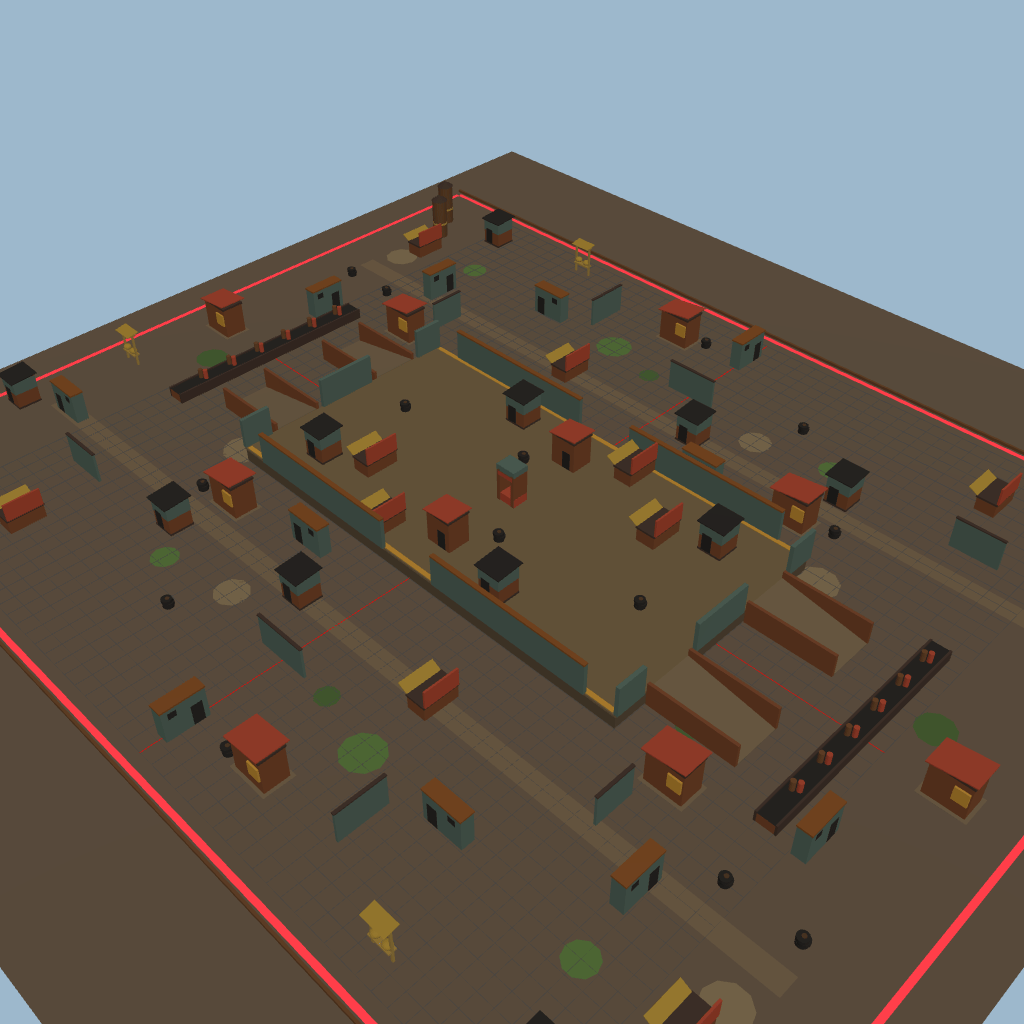
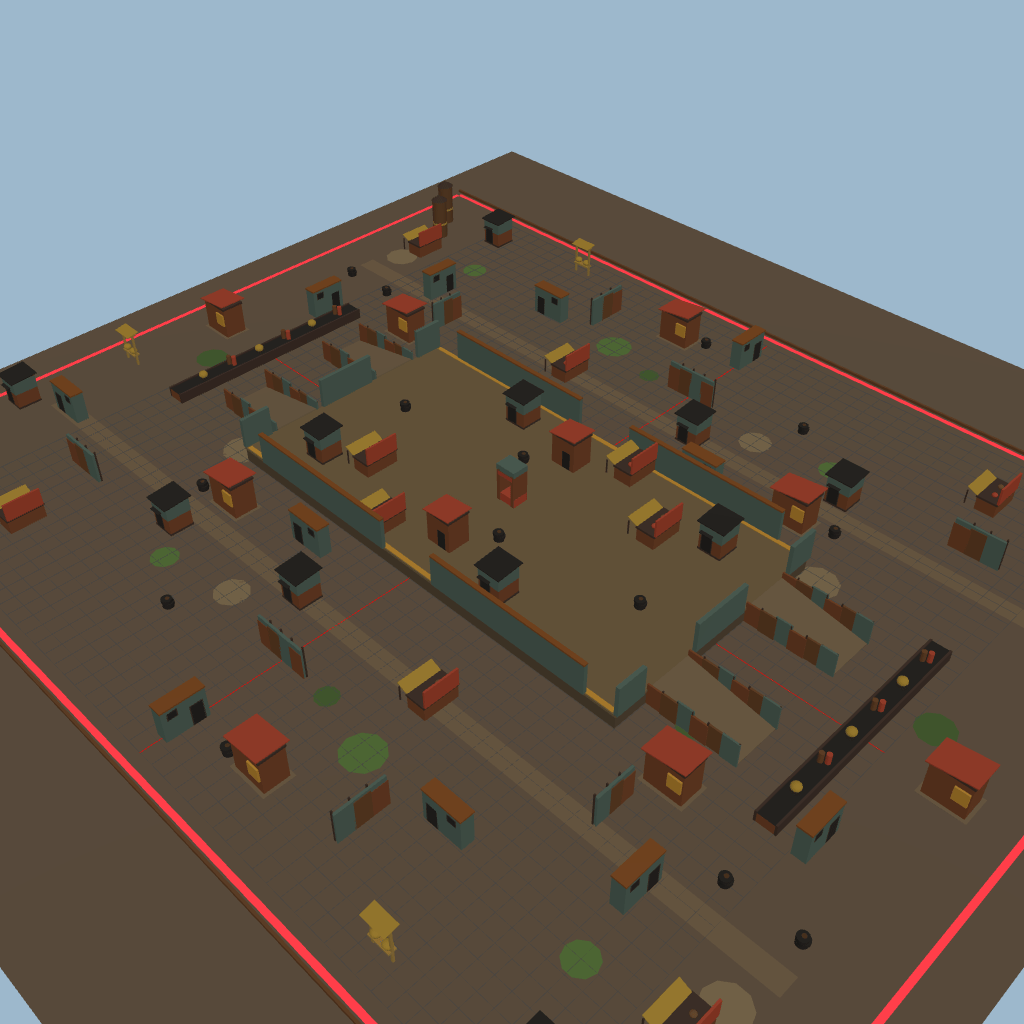
yard: revamp the five factory-reading pieces (collision frozen)
User named the leftovers: partition, conveyor belt, house openings,
slope + guard, workbench. Each gets slum construction language now —
clean single-material slabs were what kept reading factory:

- Partitions -> staggered sheet fences: overlapped panels of varying
  height and tint on timber posts; the old top-trim cap keeps its
  collision box, invisible (a clean capped edge read industrial).
- Shack rows -> visibly segmented attached shacks: alternating sheet
  tints per ~9-unit bay on both faces; rooftop objects alternate drum
  pairs with tarped bundles so the roofline stops reading as belt cargo.
- Tower + row-house openings -> framed: timber frame plane behind each
  dark inset, lintel overhang above tower gates (bare planes read as
  stickers on a box).
- Slopes -> plank treads laid over the dirt banks; lane guards keep
  their collision boxes invisible under staggered sheet fences with
  posts (overlapping panels, visually solid like the cover they are).
- Workbenches -> proper market stalls: the canopy now stands on two
  timber legs and tarped goods sit on the counter.

Collision export still checksums byte-identical (3637168.500000 / 319).
Aerial + ramp-lane close-up verified by eye; thumbnail refreshed.

diff --git a/client/src/main.js b/client/src/main.js
@@ -11102,13 +11102,40 @@ function buildFactory2Arena() {
   addRamp({ minX: 60, maxX: 82, minZ: 10, maxZ: 22, axis: 'x', lowY: DECK_Y, highY: 0, material: floorPaint });
   addRamp({ minX: -82, maxX: -60, minZ: -22, maxZ: -10, axis: 'x', lowY: 0, highY: DECK_Y, material: floorPaint });
   addRamp({ minX: -82, maxX: -60, minZ: 10, maxZ: 22, axis: 'x', lowY: 0, highY: DECK_Y, material: floorPaint });
-  // Solid lane fences along every bank edge (were caution rails; top 6,
-  // topBuffer 0, identical boxes): rusted sheet, so the climb reads as a
-  // fenced village lane instead of a plant walkway. Grounded units can only
-  // enter at the foot; anyone already on the bank/terrace passes.
+  // Plank treads laid over each dirt bank (decor — the bare wedge still
+  // read as a smooth factory ramp; revamp 2026-08-13).
+  const rampPlanks = (x0, x1, zc, y0, y1) => {
+    const ang = Math.atan2(y1 - y0, x1 - x0);
+    for (let i = 0; i < 7; i += 1) {
+      const t = (i + 0.5) / 7;
+      const plank = new THREE.Mesh(new THREE.BoxGeometry(1.6, 0.1, 11.6), crate.clone());
+      plank.position.set(x0 + (x1 - x0) * t, y0 + (y1 - y0) * t + 0.08, zc);
+      plank.rotation.z = ang;
+      scene.add(plank); arenaDecor.push(plank);
+    }
+  };
+  rampPlanks(60, 82, -16, 4, 0); rampPlanks(60, 82, 16, 4, 0);
+  rampPlanks(-82, -60, -16, 0, 4); rampPlanks(-82, -60, 16, 0, 4);
+  // Lane guards (were caution rails; top 6, topBuffer 0, identical boxes):
+  // the collision box goes invisible and a staggered sheet fence with posts
+  // covers the same volume — a solid 22-long slab read as a plant wall
+  // (revamp 2026-08-13). Sheets overlap, so the fence stays visually solid
+  // like the cover it is. Grounded units can only enter at the foot;
+  // anyone already on the bank/terrace passes.
   for (const sx of [-1, 1]) {
     for (const rz of [-22.4, -9.6, 9.6, 22.4]) {
-      addBlockingBox({ x: sx * 71, y: 3, z: rz, sx: 22, sy: 6, sz: 0.8, material: machine, topBuffer: 0 });
+      addBlockingBox({ x: sx * 71, y: 3, z: rz, sx: 22, sy: 6, sz: 0.8, material: machine, topBuffer: 0, invisible: true });
+      const gTints = [machine, wallTrim, machineAlt];
+      for (let i = 0; i < 6; i += 1) {
+        const gx = sx * 71 - 11 + (i + 0.5) * (22 / 6);
+        const hgt = 5.5 + (i % 3) * 0.45;
+        const sheet = new THREE.Mesh(new THREE.BoxGeometry(22 / 6 + 0.4, hgt, 0.45), gTints[i % 3].clone());
+        sheet.position.set(gx, hgt / 2, rz + (i % 2 ? 0.12 : -0.1));
+        scene.add(sheet); arenaDecor.push(sheet);
+        const post = new THREE.Mesh(new THREE.BoxGeometry(0.3, 6.4, 0.3), beam.clone());
+        post.position.set(gx + 22 / 12, 3.2, rz);
+        scene.add(post); arenaDecor.push(post);
+      }
     }
   }
   // Deck-top cover line at x=0 (the "checkpoint"): a press flanked by two
@@ -11158,18 +11185,40 @@ function buildFactory2Arena() {
     tar.rotation.x = -Math.PI / 2;
     tar.position.set(cx, 2.61, beltZ);
     scene.add(tar); arenaDecor.push(tar);
-    // (No doorways: the row is only 2.6 tall — knee-height to the unit —
-    // and human doors on it screamed "tiny homes", making the unit a giant.
-    // It reads as a long scrap-roofed storage row now. Scale pass 2026-08-13.)
-    // The riding crates keep their collision but render as rooftop water
-    // drums — a pair of barrels filling each box footprint.
+    // (No doorways — human doors on a knee-height row shrank the world.)
+    // Segmented faces so the row reads as ATTACHED SHACKS, not one long
+    // machine: alternating sheet tints per ~9-unit bay on both sides
+    // (revamp 2026-08-13 — the uniform body still read as a conveyor).
+    const segTints = [machine, wallTrim, machineAlt];
+    const nSeg = Math.max(2, Math.round(len / 9));
+    for (let i = 0; i < nSeg; i += 1) {
+      const t = -len / 2 + (i + 0.5) * (len / nSeg);
+      for (const side of [-1, 1]) {
+        const p = new THREE.Mesh(new THREE.PlaneGeometry(len / nSeg - 0.4, 2.2), segTints[(i + (side > 0 ? 1 : 0)) % 3].clone());
+        p.position.set(cx + side * 2.06, 1.3, beltZ + t);
+        p.rotation.y = side > 0 ? -Math.PI / 2 : Math.PI / 2;
+        scene.add(p); arenaDecor.push(p);
+      }
+    }
+    // The riding crates keep their collision, invisible; rooftop objects
+    // ALTERNATE (drum pair / tarped bundle) so the roofline stops reading
+    // as evenly-spaced belt cargo.
+    let objAlt = false;
     for (let lz = -len / 2 + 6; lz <= len / 2 - 6; lz += 9) {
       addBlockingBox({ x: cx, y: 4.0, z: beltZ + lz, sx: 2.6, sy: 2.6, sz: 2.6, material: machine, topBuffer: 2, invisible: true });
-      for (const [ox, oz, tint] of [[-0.62, 0.35, wallTrim], [0.62, -0.35, machineTop]]) {
-        const drum = new THREE.Mesh(new THREE.CylinderGeometry(0.62, 0.62, 2.5, 12), tint.clone());
-        drum.position.set(cx + ox, 4.0, beltZ + lz + oz);
-        scene.add(drum); arenaDecor.push(drum);
+      if (objAlt) {
+        const bundle = new THREE.Mesh(new THREE.SphereGeometry(1.15, 10, 8), cautionMat.clone());
+        bundle.scale.set(1.05, 0.85, 1.05);
+        bundle.position.set(cx, 3.75, beltZ + lz);
+        scene.add(bundle); arenaDecor.push(bundle);
+      } else {
+        for (const [ox, oz, tint] of [[-0.62, 0.35, wallTrim], [0.62, -0.35, machineTop]]) {
+          const drum = new THREE.Mesh(new THREE.CylinderGeometry(0.62, 0.62, 2.5, 12), tint.clone());
+          drum.position.set(cx + ox, 4.0, beltZ + lz + oz);
+          scene.add(drum); arenaDecor.push(drum);
+        }
       }
+      objAlt = !objAlt;
     }
     arenaSurfaces.push({ minX: cx - 2, maxX: cx + 2, minZ: beltZ - len / 2, maxZ: beltZ + len / 2, maxTop: 2.6, type: 'flat', top: 2.6, heightAt: () => 2.6 });
   };
@@ -11184,11 +11233,30 @@ function buildFactory2Arena() {
     const main = axis === 'x'
       ? addBlockingBox({ x, y: 4.0, z, sx: length, sy: 8.0, sz: 0.6, material: machineAlt })
       : addBlockingBox({ x, y: 4.0, z, sx: 0.6, sy: 8.0, sz: length, material: machineAlt });
-    const trim = addBlockingBox(axis === 'x'
-      ? { x, y: 8.15, z, sx: length + 0.2, sy: 0.3, sz: 0.8, material: beam }
-      : { x, y: 8.15, z, sx: 0.8, sy: 0.3, sz: length + 0.2, material: beam });
+    // Old top trim keeps its collision, invisible — a clean capped edge read
+    // as a factory partition (revamp 2026-08-13). The fence look comes from
+    // staggered overlapped sheets of varying height + timber posts.
+    addBlockingBox(axis === 'x'
+      ? { x, y: 8.15, z, sx: length + 0.2, sy: 0.3, sz: 0.8, material: beam, invisible: true }
+      : { x, y: 8.15, z, sx: 0.8, sy: 0.3, sz: length + 0.2, material: beam, invisible: true });
     fadeTall(main, box);
-    fadeTall(trim, box);   // top trim fades with the panel
+    const tints = [machine, wallTrim, machineAlt];
+    const nP = Math.max(3, Math.round(length / 4));
+    const seg = length / nP;
+    for (let i = 0; i < nP; i += 1) {
+      const t = -length / 2 + (i + 0.5) * seg;
+      const hgt = 6.8 + (i % 3) * 0.65;
+      const sheet = new THREE.Mesh(
+        new THREE.BoxGeometry(axis === 'x' ? seg + 0.35 : 0.12, hgt, axis === 'x' ? 0.12 : seg + 0.35),
+        tints[i % 3].clone());
+      sheet.position.set(axis === 'x' ? x + t : x + 0.4, hgt / 2, axis === 'x' ? z + 0.4 : z + t);
+      scene.add(sheet); arenaDecor.push(sheet);
+      fadeTall(sheet, box);
+      const post = new THREE.Mesh(new THREE.BoxGeometry(0.35, 8.6, 0.35), beam.clone());
+      post.position.set(axis === 'x' ? x + t + seg / 2 : x - 0.42, 4.3, axis === 'x' ? z - 0.42 : z + t + seg / 2);
+      scene.add(post); arenaDecor.push(post);
+      fadeTall(post, box);
+    }
   };
   drawPartition(0, -66, 'x', 14);
   drawPartition(0, 66, 'x', 14);
@@ -11216,18 +11284,34 @@ function buildFactory2Arena() {
     fadeTall(splash, h
       ? { minX: x - 4.5, maxX: x + 4.5, minY: b + 3.8, maxY: b + 8.4, minZ: z + 2.3, maxZ: z + 2.9 }
       : { minX: x + 2.3, maxX: x + 2.9, minY: b + 3.8, maxY: b + 8.4, minZ: z - 4.5, maxZ: z + 4.5 });
-    // Canvas awning leaning over the open front (opposite the sign wall).
+    // Canvas stall canopy over the open front, standing on two timber legs
+    // (revamp 2026-08-13: the floating awning read as a broken part —
+    // grounded posts make it a market stall).
     const aw = h
-      ? new THREE.Mesh(new THREE.BoxGeometry(9, 0.18, 3.2), cautionMat.clone())
-      : new THREE.Mesh(new THREE.BoxGeometry(3.2, 0.18, 9), cautionMat.clone());
+      ? new THREE.Mesh(new THREE.BoxGeometry(9, 0.18, 3.4), cautionMat.clone())
+      : new THREE.Mesh(new THREE.BoxGeometry(3.4, 0.18, 9), cautionMat.clone());
     if (h) {
-      aw.position.set(x, b + 4.4, z - 3.6);
-      aw.rotation.x = 0.5;
+      aw.position.set(x, b + 4.35, z - 3.7);
+      aw.rotation.x = 0.42;
     } else {
-      aw.position.set(x - 3.6, b + 4.4, z);
-      aw.rotation.z = -0.5;
+      aw.position.set(x - 3.7, b + 4.35, z);
+      aw.rotation.z = -0.42;
     }
     scene.add(aw); arenaDecor.push(aw);
+    const legs = h ? [[x - 4.2, z - 5.1], [x + 4.2, z - 5.1]] : [[x - 5.1, z - 4.2], [x - 5.1, z + 4.2]];
+    for (const [lx, lz2] of legs) {
+      const leg = new THREE.Mesh(new THREE.BoxGeometry(0.28, 3.8, 0.28), beam.clone());
+      leg.position.set(lx, b + 1.9, lz2);
+      scene.add(leg); arenaDecor.push(leg);
+    }
+    // Goods on the counter.
+    const spots = h ? [[x - 1.6, z, crate], [x + 2.1, z + 0.5, machineTop]] : [[x, z - 1.6, crate], [x + 0.5, z + 2.1, machineTop]];
+    for (const [gx2, gz2, tint] of spots) {
+      const goods = new THREE.Mesh(new THREE.SphereGeometry(0.72, 9, 7), tint.clone());
+      goods.scale.set(1.05, 0.8, 1.0);
+      goods.position.set(gx2, b + 4.35, gz2);
+      scene.add(goods); arenaDecor.push(goods);
+    }
     // (No doorway: the kiosk body is 3.4 tall — a human-sized door on a
     // waist-high stall made the unit read as a giant. Stalls are open-front
     // market stands; the awning + sign carry the read. Scale pass 2026-08-13.)
@@ -11273,16 +11357,22 @@ function buildFactory2Arena() {
     fadeTall(addBlockingBox({ x, y: 4, z, sx, sy: 8, sz, material: machineAlt }), box);
     fadeTall(addBlockingBox({ x, y: 8.2, z, sx: sx + 0.3, sy: 0.4, sz: sz + 0.3, material: beltFrame }), box);
     const h = axis === 'x';
+    // Framed openings (revamp 2026-08-13: bare planes read as decals): a
+    // timber frame plane sits just behind each dark inset.
     const face = (ox, oz, w, hh, yy, rot) => {
+      const fr = new THREE.Mesh(new THREE.PlaneGeometry(w + 0.5, hh + 0.4), beam.clone());
+      fr.position.set(x + ox * (h ? 1 : 0.988), yy, z + oz * (h ? 0.988 : 1));
+      fr.rotation.y = rot;
+      scene.add(fr); arenaDecor.push(fr);
+      fadeTall(fr, box);
       const m = new THREE.Mesh(new THREE.PlaneGeometry(w, hh), beltSurface.clone());
       m.position.set(x + ox, yy, z + oz);
       m.rotation.y = rot;
       scene.add(m); arenaDecor.push(m);
       fadeTall(m, box);
     };
-    // Mech-scale openings (scale pass 2026-08-13): one 5.2-tall gate and
-    // one high vent window per house — small human-proportioned doors made
-    // the unit read as a giant.
+    // Mech-scale openings: one 5.2-tall gate and one high vent window per
+    // house — small human-proportioned doors made the unit read as a giant.
     if (h) {
       face(-2.6, 1.62, 2.6, 5.2, 2.65, 0);         // gate, south face
       face(2.6, 1.62, 1.9, 1.6, 6.2, 0);           // high vent window
@@ -11328,13 +11418,27 @@ function buildFactory2Arena() {
     roof.rotation.x = 0.08;
     scene.add(roof); arenaDecor.push(roof);
     fadeTall(roof, { ...box, maxY: b + 8.8 });
-    // Mech-scale gate on the south face + one high vent window. Openings
-    // are sized so ~1 storey = 7-8 units: a 5-tall gate keeps the 6.4-tall
-    // unit from reading as a giant (scale pass 2026-08-13).
+    // Mech-scale gate + high vent window, FRAMED (revamp 2026-08-13: bare
+    // dark planes read as stickers on a box). Frame plane behind, dark
+    // inset in front, timber lintel overhang above the gate.
+    const gateFrame = new THREE.Mesh(new THREE.PlaneGeometry(3.1, 5.35), beam.clone());
+    gateFrame.position.set(x - 0.9, b + 2.68, z + 3.07);
+    scene.add(gateFrame); arenaDecor.push(gateFrame);
+    fadeTall(gateFrame, box);
     const door = new THREE.Mesh(new THREE.PlaneGeometry(2.6, 5.0), beltSurface.clone());
     door.position.set(x - 0.9, b + 2.55, z + 3.09);
     scene.add(door); arenaDecor.push(door);
     fadeTall(door, box);
+    const lintel = new THREE.Mesh(new THREE.BoxGeometry(3.3, 0.14, 1.0), beltSurface.clone());
+    lintel.position.set(x - 0.9, b + 5.5, z + 3.45);
+    lintel.rotation.x = 0.14;
+    scene.add(lintel); arenaDecor.push(lintel);
+    fadeTall(lintel, box);
+    const winFrame = new THREE.Mesh(new THREE.PlaneGeometry(2.3, 1.9), beam.clone());
+    winFrame.position.set(x + 0.9, b + 6.5, z - 3.095);
+    winFrame.rotation.y = Math.PI;
+    scene.add(winFrame); arenaDecor.push(winFrame);
+    fadeTall(winFrame, box);
     const win = new THREE.Mesh(new THREE.PlaneGeometry(1.9, 1.5), machineTop.clone());
     win.position.set(x + 0.9, b + 6.5, z - 3.11);
     win.rotation.y = Math.PI;
